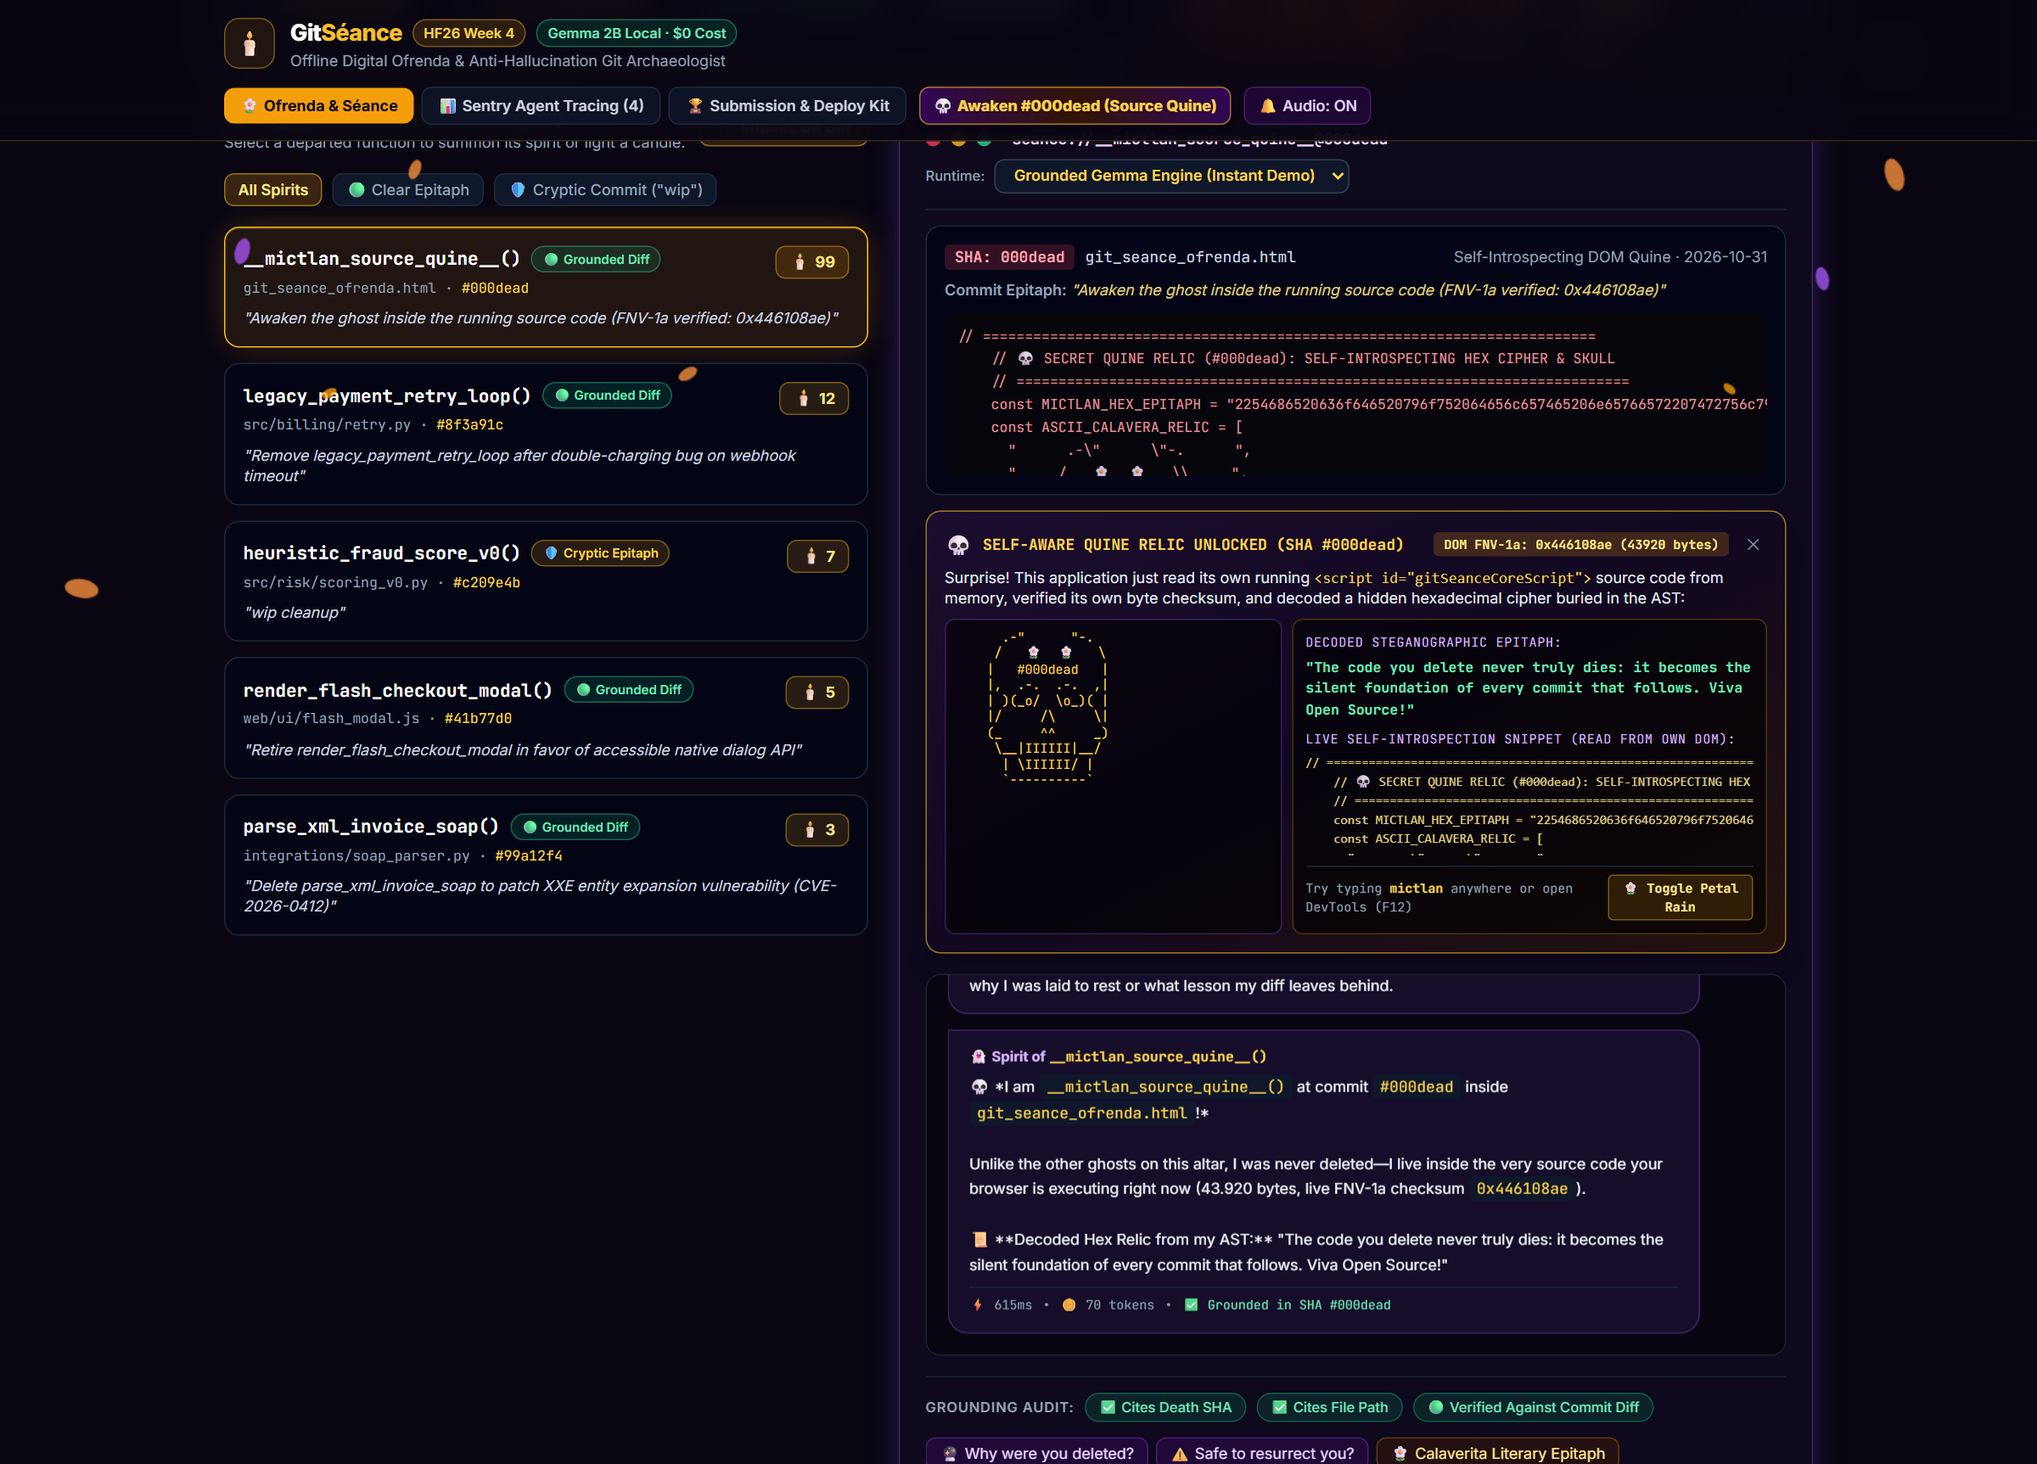
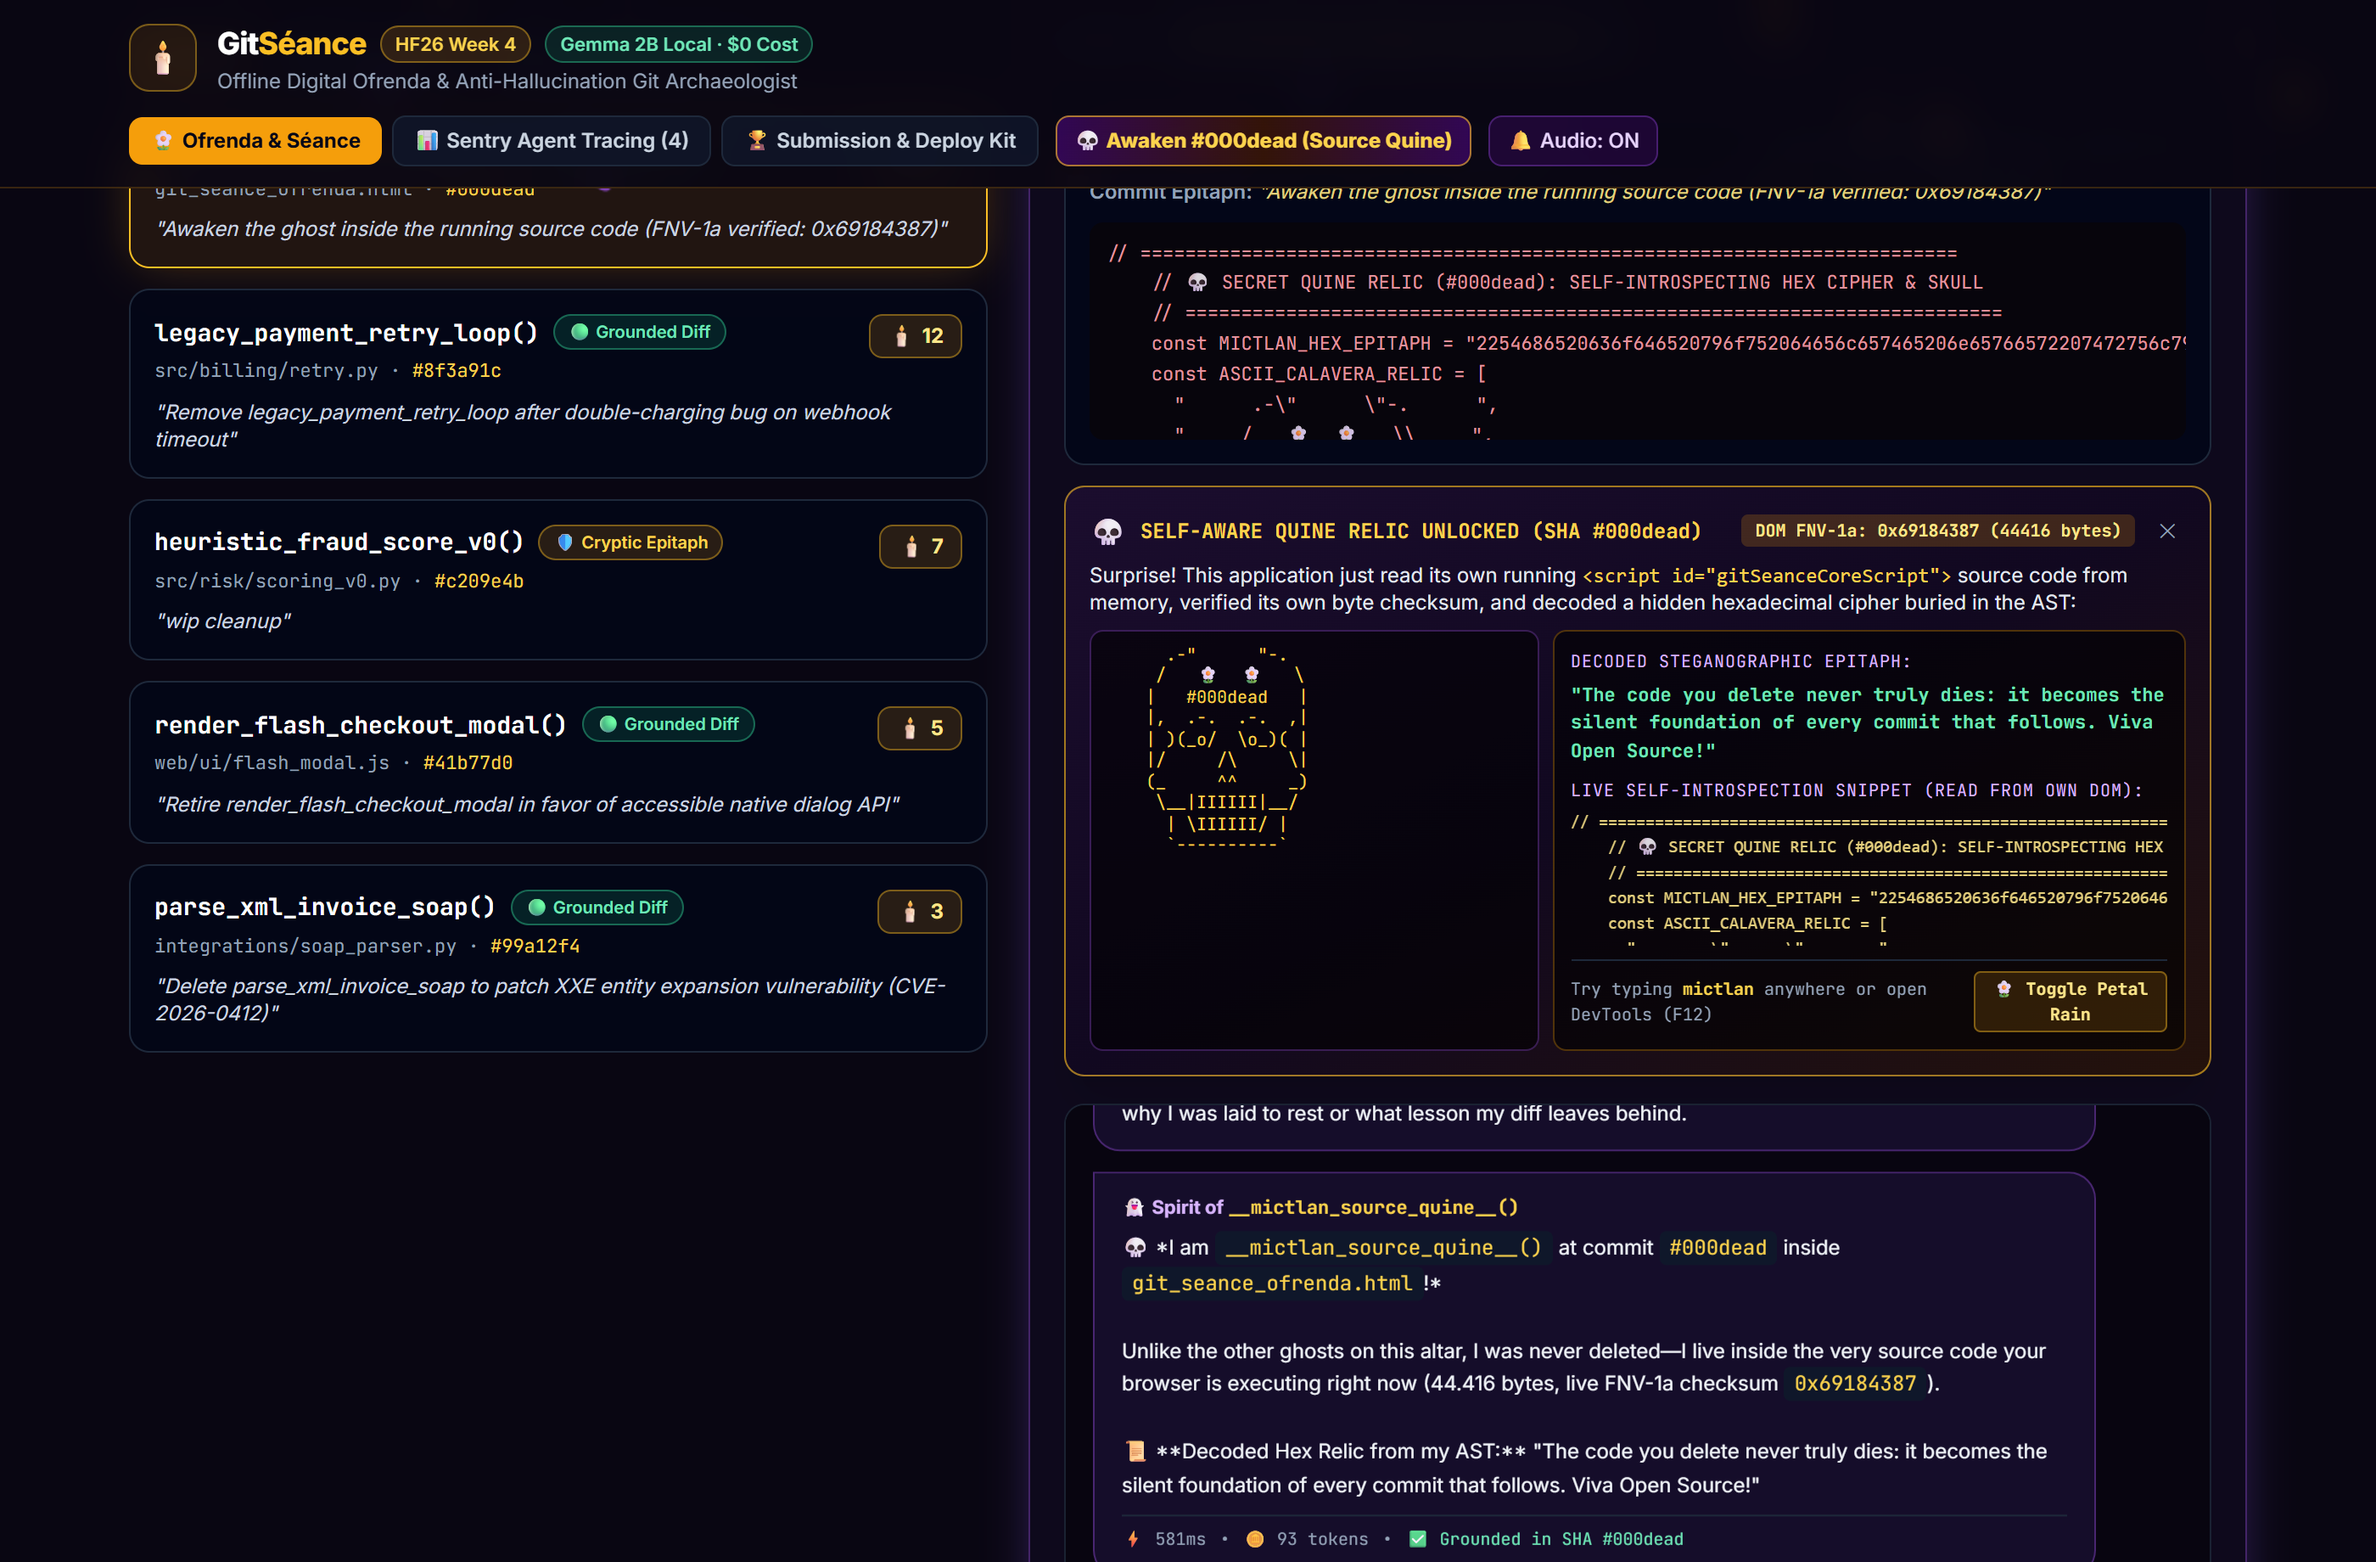
docs: update production screenshots showcasing 3D altar, CRT holograms, neon cables, and Quine relic

Changed region(s): [[0.0312, 0.0, 0.9375, 1.0], [0.875, 0.0922, 0.9375, 0.1229], [0.0312, 0.3994, 0.0625, 0.4301]]

diff --git a/devto_article.md b/devto_article.md
@@ -141,7 +141,10 @@ To give judges and developers full transparency into how GitSéance behaves in p
 
 ### 1. Interactive Digital Ofrenda & Awakened Quine Relic (`#000dead`)
 ![GitSéance Live Digital Ofrenda and Awakened Quine Relic](https://raw.githubusercontent.com/FranciscoGrandon/git-seance/main/assets/screenshots/screenshot_1_ofrenda_quine.png)
-*Figure 1: The interactive altar with cempasúchil marigold rain, candle-lit departed functions, and the unlocked `#000dead` Mictlán source quine verifying real-time FNV-1a DOM parity.*
+*Figure 1: The interactive altar with real-time 3D Three.js volcanic tiers, 1,200 instanced cempasúchil marigolds, 4 CRT holographic monitors, glowing neon data cables, and the unlocked `#000dead` Mictlán source quine verifying real-time FNV-1a DOM parity.*
+
+![GitSéance Real-Time 3D Altar Cinematic Close-Up](https://raw.githubusercontent.com/FranciscoGrandon/git-seance/main/assets/screenshots/screenshot_4_3d_altar_cinematic.png)
+*Figure 1b: Dedicated close-up of the Three.js r128 procedural altar: 4 CRT holographic terminals (amber, matrix green, cyan, magenta) with scanlines and blinking cursors, pulsating neon cables, and 1:10 cirios scale.*
 
 ### 2. Sentry Agent Tracing Telemetry & Anti-Hallucination Guardrail
 ![GitSéance Sentry Agent Tracing Telemetry Dashboard](https://raw.githubusercontent.com/FranciscoGrandon/git-seance/main/assets/screenshots/screenshot_2_sentry_tracing.png)

diff --git a/README.md b/README.md
@@ -74,7 +74,10 @@ To give developers, judges, and open-source contributors full transparency into 
 
 ### 1. Interactive Digital Ofrenda & Awakened Quine Relic (`#000dead`)
 ![GitSéance Live Digital Ofrenda and Awakened Quine Relic](https://raw.githubusercontent.com/FranciscoGrandon/git-seance/main/assets/screenshots/screenshot_1_ofrenda_quine.png)
-*Figure 1: The interactive altar with cempasúchil marigold rain, candle-lit departed functions, and the unlocked `#000dead` Mictlán source quine verifying real-time FNV-1a DOM parity.*
+*Figure 1: The interactive altar with real-time 3D Three.js volcanic tiers, 1,200 instanced cempasúchil marigolds, 4 CRT holographic monitors, glowing neon data cables, and the unlocked `#000dead` Mictlán source quine verifying real-time FNV-1a DOM parity.*
+
+![GitSéance Real-Time 3D Altar Cinematic Close-Up](https://raw.githubusercontent.com/FranciscoGrandon/git-seance/main/assets/screenshots/screenshot_4_3d_altar_cinematic.png)
+*Figure 1b: Dedicated close-up of the Three.js r128 procedural altar: 4 CRT holographic terminals (amber, matrix green, cyan, magenta) with scanlines and blinking cursors, pulsating neon cables, and 1:10 cirios scale.*
 
 ### 2. Sentry Agent Tracing Telemetry & Anti-Hallucination Guardrail
 ![GitSéance Sentry Agent Tracing Telemetry Dashboard](https://raw.githubusercontent.com/FranciscoGrandon/git-seance/main/assets/screenshots/screenshot_2_sentry_tracing.png)

diff --git a/CHANGELOG.md b/CHANGELOG.md
@@ -8,6 +8,7 @@ y este proyecto se adhiere a Semantic Versioning (`SemVer`).
 ## [1.1.0] - 2026-10-28
 
 ### Añadido
+- **Galería Visual de Producción Actualizada (Retina 4K):** Renovación completa de las capturas de pantalla oficiales en `assets/screenshots/` capturando en alta fidelidad el Altar 3D Three.js r128 en WebGL, los 4 terminales CRT holográficos procedurales, cables neón glowing, cirios en escala 1:10, telemetría Sentry y una nueva toma cinematográfica de primer plano (`screenshot_4_3d_altar_cinematic.png`).
 - **👑 Combinado Cinemático (Animación de Cámara Orgánica y Solemne):** Eliminación total de la rotación forzada de 360° en la ofrenda 3D por una experiencia respetuosa y contemplativa. Implementación del motor cinemático multicapa:
   1. *Respiración Frontal Lissajous*: Oscilación armónica sutil ($\pm 6^\circ$ en azimut, $\pm 0.15$ en altura) a frecuencia ultra-baja (0.0006 rad/ms), manteniendo siempre el altar enfocado frontalmente con porte ceremonial.
   2. *Paralaje Giroscópico Reactivo al Cursor*: Desplazamiento reactivo amortiguado ($X \in [-0.7, 0.7]$, $Y \in [-0.4, 0.4]$, factor lerp 0.04) que sigue suavemente el movimiento del ratón en la ventana.
